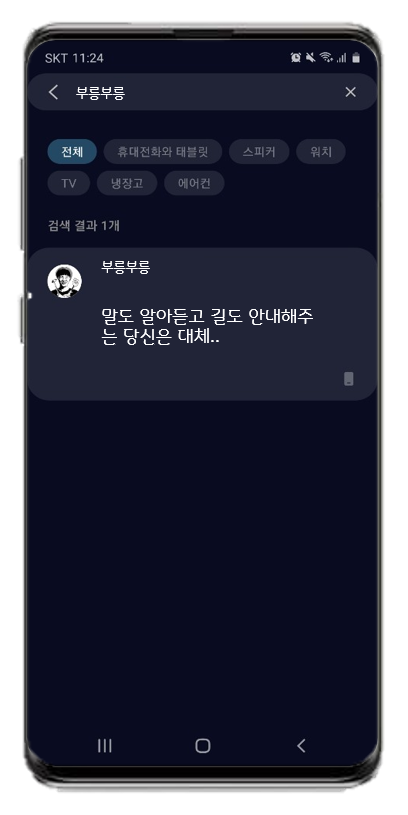
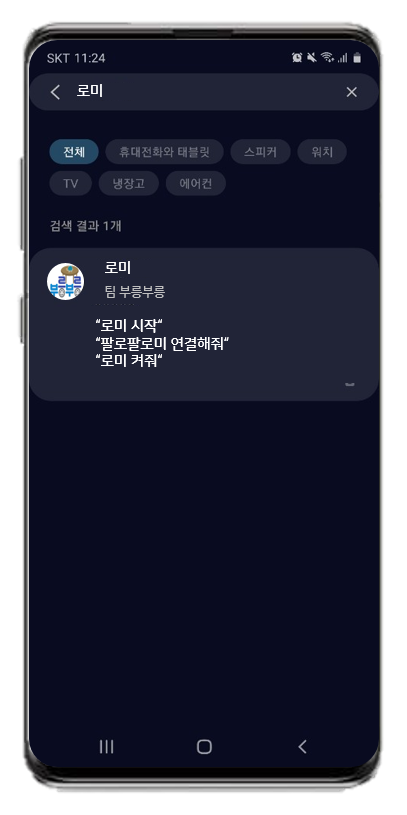
[Docs] Update README.md

diff --git a/bixby/README.md b/bixby/README.md
@@ -3,12 +3,15 @@
 ![Bixby 뱃지](https://img.shields.io/badge/Bixby-8.0.1-informational) 
 
 
-## Usage
+## Getting started
 
 ```
 1. 스마트폰의 Bixby를 실행합니다.
-2. 부릉부릉 캡슐을 검색 후 추가합니다.
-3. Bixby에게 다음과 같이 음성으로 말합니다. 부릉부릉 시작!
+2. 로미 캡슐을 검색 후 추가합니다.
+3. Bixby에게 다음과 같이 음성으로 말합니다.
+  - 로미 시작
+  - 팔로팔로미 연결해줘
+  - 로미 켜줘
 ```
 
 ![bixby_market](./images/bixby_market.png) ![bixby_market_brr](./images/bixby_market_brr.png) ![bixby_market_brr_2](./images/bixby_market_brr_2.png)
